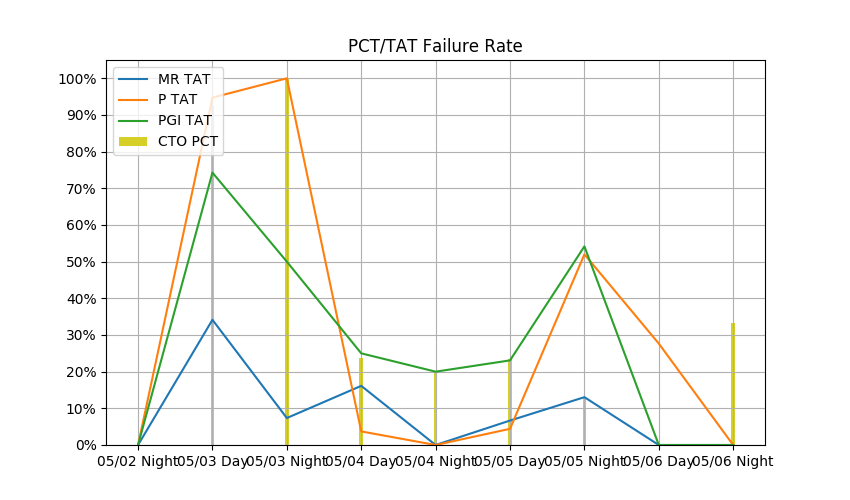
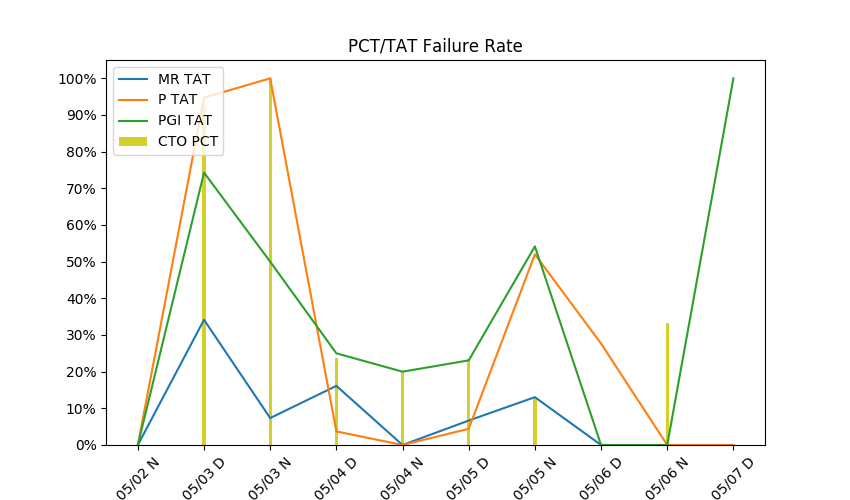
fixed CTO to PC bug

diff --git a/Dashboard/write_message.py b/Dashboard/write_message.py
@@ -8,6 +8,8 @@ def write_message(Type, Target, From, To, WorkingDay, WorkingHour, URL, Shift):
 	Sum = 0
 	Sum_Fail = 0
 	Failure_Rate = 0
+	if (Type == 'PC'):
+		Type = 'CTO'
 	# Get PCT data in 12 hours from 112 DB
 	conn = pymssql.connect("16.187.224.112", "sa", "support", "FE2CheckPoint")
 	cursor = conn.cursor(as_dict=True)
@@ -191,8 +193,7 @@ def write_message(Type, Target, From, To, WorkingDay, WorkingHour, URL, Shift):
 		""".format(Sum = Sum, Sum_Fail = Sum_Fail, Failure_Rate = "{:.0%}".format(Failure_Rate))
 
 		# Record FailRate for plot
-		if (Type == 'PC'):
-			Type = 'CTO'
+		if (Type == 'CTO'):
 			Sum = Count[Type]['Total']
 			Sum_Fail = Count[Type]['Fail']
 			if Sum != 0:

diff --git a/dev/write_message.py b/dev/write_message.py
@@ -8,6 +8,8 @@ def write_message(Type, Target, From, To, WorkingDay, WorkingHour, URL, Shift):
 	Sum = 0
 	Sum_Fail = 0
 	Failure_Rate = 0
+	if (Type == 'PC'):
+		Type = 'CTO'
 	# Get PCT data in 12 hours from 112 DB
 	conn = pymssql.connect("16.187.224.112", "sa", "support", "FE2CheckPoint")
 	cursor = conn.cursor(as_dict=True)
@@ -191,8 +193,7 @@ def write_message(Type, Target, From, To, WorkingDay, WorkingHour, URL, Shift):
 		""".format(Sum = Sum, Sum_Fail = Sum_Fail, Failure_Rate = "{:.0%}".format(Failure_Rate))
 
 		# Record FailRate for plot
-		if (Type == 'PC'):
-			Type = 'CTO'
+		if (Type == 'CTO'):
 			Sum = Count[Type]['Total']
 			Sum_Fail = Count[Type]['Fail']
 			if Sum != 0:
